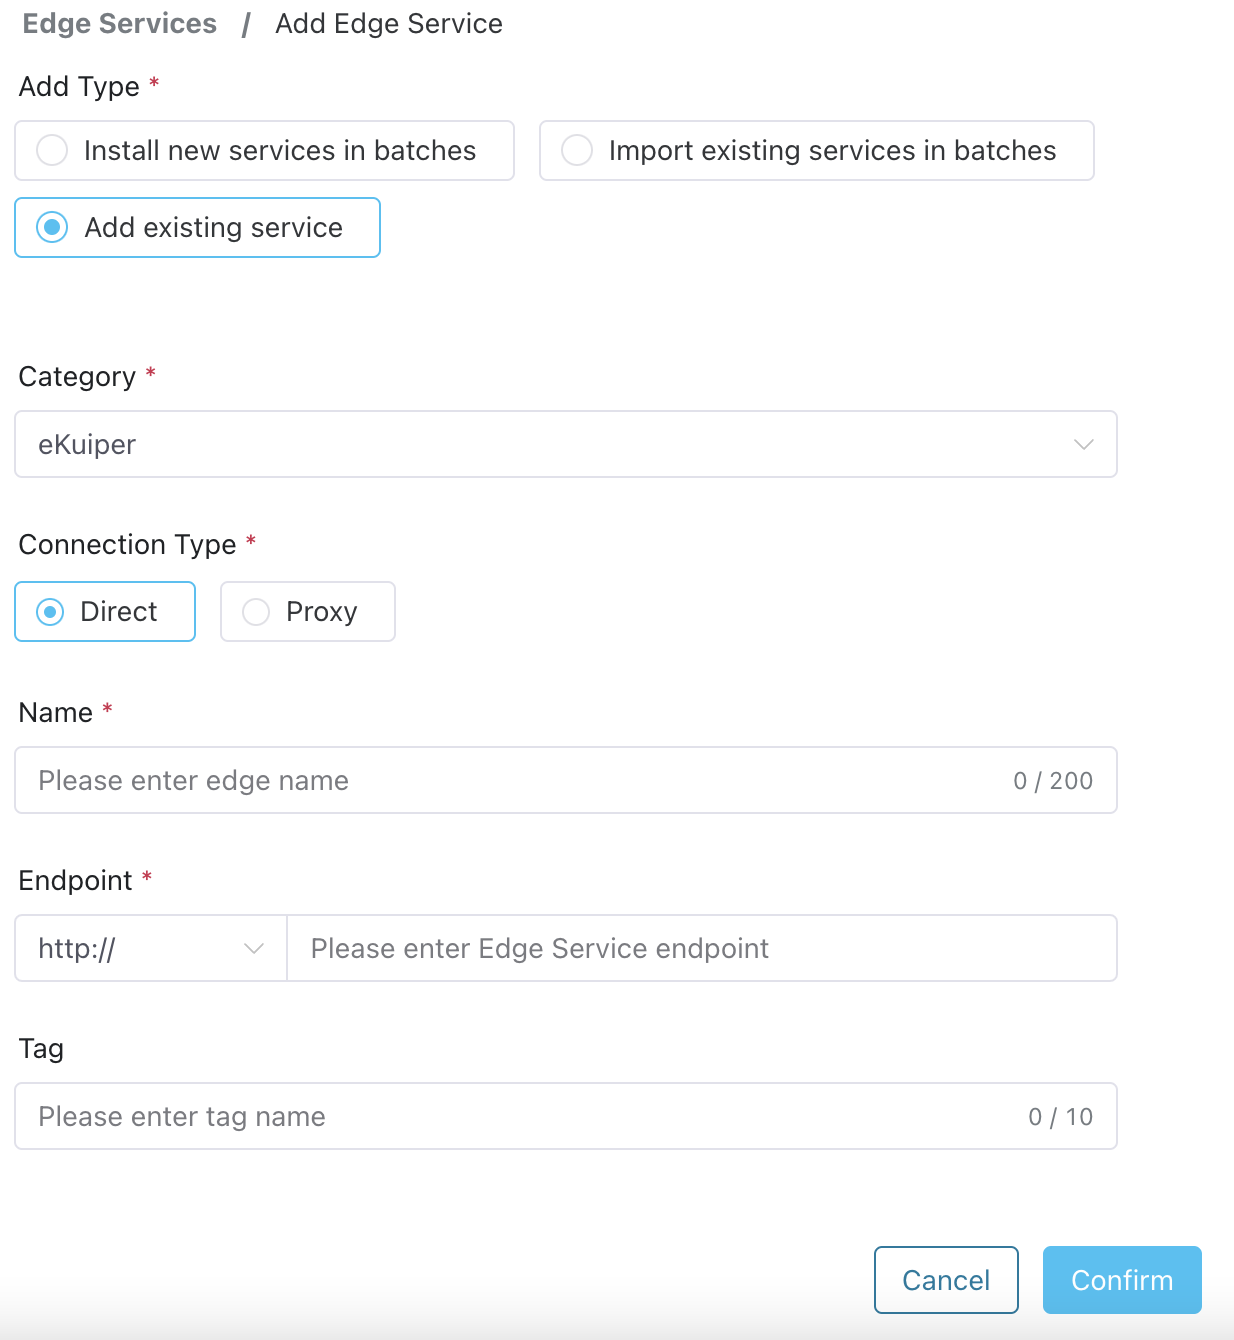
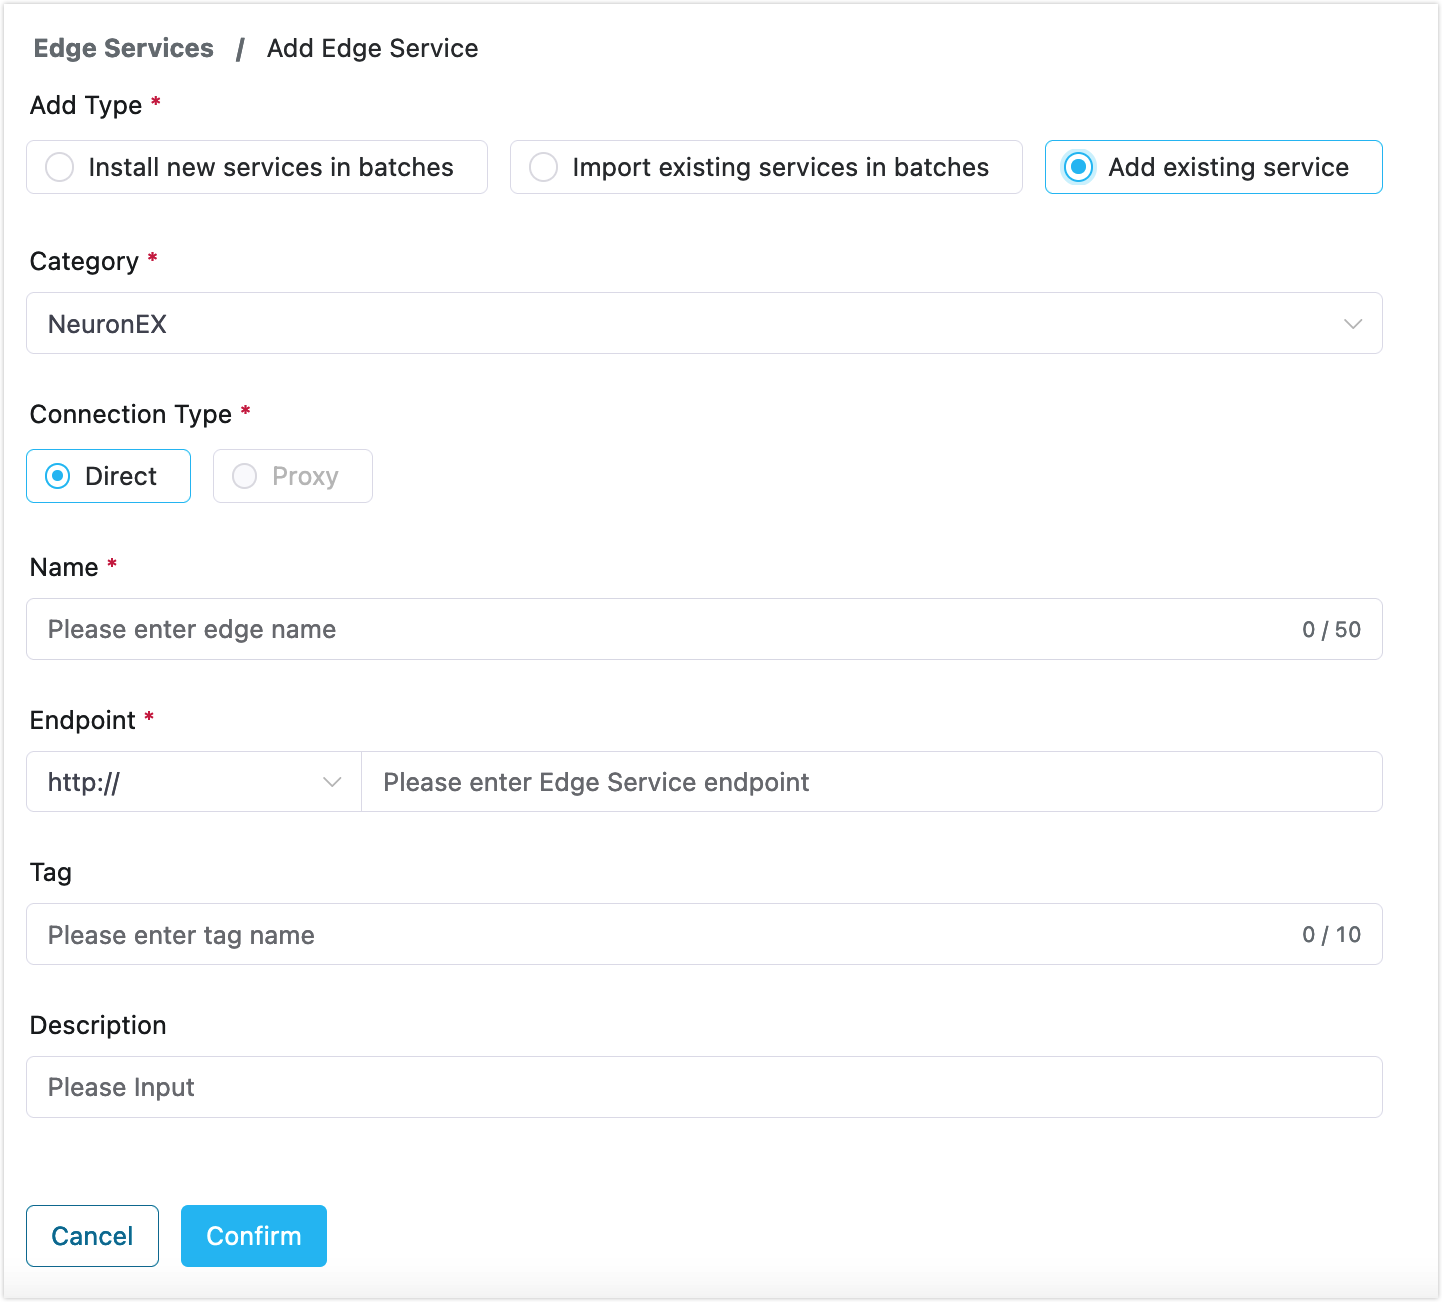
docs: update for edge service import

diff --git a/ecp/en_US/edge_service/batch_import.md b/ecp/en_US/edge_service/batch_import.md
@@ -1,10 +1,10 @@
 # Add Existing Edge Services
 
-ECP provides the capability to manage existing edge services. However, these services must first be added to ECP. You can add them either [one by one](#add-an-existing-edge-service) or, if adding Neuron or eKuiper edge services, you can do so [in bulk](#add-existing-edge-services-in-bulk).
+ECP provides the capability to manage existing edge services. However, these services must first be added to ECP. You can add [an externally created edge service](#add-an-existing-edge-service), or [import them from csv in bulk](#add-existing-edge-services-in-bulk).
 
 ## Add an Existing Edge Service
 
-ECP supports the addition of a Neuron or eKuiper in both [direct connection](#direct-connection-mode) and [proxy modes](#proxy-mode).
+ECP supports to add a NeuronEX instance in [direct connection mode](#direct-connection-mode).
 
 ### Direct Connection Mode
 
@@ -13,11 +13,11 @@ Direct connection mode generally refers to the scenario where the cluster and al
 1. Log in as system admin, organization admin, or project admin. 
 2. Click the **Add Edge Service** button to enter the **Add Edge Service** page.
 3. Choose **Add existing service** for **Add Type**.
-4. For **Category**, you can choose **eKuiper**, **Neuron**, **NanoMQ**, or **Customize**.
+4. For **Category**, choose **NeuronEX**.
 5. Choose **Direct Connection** for the **Connection Type**;
 6. Give a name to the edge service; it should be 1 - 200 characters, and also support "-" and blank spaces. 
 7. Enter the access address of the edge service. HTTP and HTTPS protocols are supported;
-8. Add tags to facilitate future management. For details, see [Tags](./batch_tag.md).
+8. Optionally add tags to facilitate future management. For details, see [Tags](./batch_tag.md).
 9. Click the **Confirm** button to finish the creation. The newly-added edge service is now displayed in the **Edge Service** section. 
 
 <img src="./_assets/edge-service-add.png" style="zoom:60%;" align="middle"> 
@@ -53,15 +53,15 @@ After the import, the imported edge services will automatically be displayed in 
 
 The following table provides an overview of the column names of the .csv file and their corresponding explanations:
 
-| Column    | Explanation                              |
-| --------- | ---------------------------------------- |
-| category  | Edge product type                        |
-| name      | Edge service name                        |
-| nodeType  | Direct/Proxy                             |
-| endpoint  | Edge service address                     |
-| scheme    | http/https/MQTT                          |
-| agentID   | Edge agent ID, optional                  |
-| tagName   | Tag name, optional                       |
-| serviceID | Edge service ID, optional                |
-| username  | NanoMQ authentication username, optional |
-| password  | NanoMQ authentication password, optional |
+| Column    | Explanation                       |
+| --------- | --------------------------------- |
+| category  | Edge product type                 |
+| name      | Edge service name                 |
+| nodeType  | Direct/Proxy                      |
+| endpoint  | Edge service address              |
+| scheme    | http/https/MQTT                   |
+| agentID   | Edge agent ID, optional           |
+| tagName   | Tag name, optional                |
+| serviceID | Edge service ID, optional         |
+| username  | Authentication username, optional |
+| password  | Authentication password, optional |

diff --git a/ecp/zh_CN/edge_service/batch_import.md b/ecp/zh_CN/edge_service/batch_import.md
@@ -4,45 +4,23 @@
 
 ## 添加一个现有服务
 
-ECP 支持直连和代理两种模式导入一个边缘服务。
-
-- [直连模式](#直连模式)：ECP 和边缘服务在同一网络或 VPC 的情况。
-- [代理模式](#代理模式)：边缘侧有自己的 VPC 或局域网，用户则需要先安装边缘代理，用于实现边缘侧和云端服务的通信。
+ECP 支持直连模式导入一个边缘服务，[直连模式](#直连模式)下，ECP 和边缘服务在同一网络或 VPC中。
 
 ### 直连模式
 
 1. 以系统/组织/项目管理员的身份登录 ECP。
 2. 点击**添加边缘服务**按钮，进入添加边缘服务页面。
 3. **添加方式**选择**添加一个现有服务**。
-4. **类型**可以选择 eKuiper、Neuron、NanoMQ 或自定义。
+4. **类型**选择 **NeuronEX**。
 5. 连接方式选择**直连**。
 6. 输入该边缘服务的名称；1 - 200 个字符，并支持 "-" 和空格。
 7. 输入边缘服务的地址，支持 HTTP 和 HTTPS 协议。
 8. [可选] 添加标签，方便后续维护。
 9. 点击**确认**，保存边缘服务信息；新增的边缘服务被添加到边缘服务列表中。
 
-<img src="./_assets/edge-service-add.png" style="zoom:40%;" align="middle">
+<img src="./_assets/edge-service-add.png" style="zoom:60%;" align="middle">
 
  
-
-### 代理模式
-
-如果边缘侧与云端是不同的网络不能直连，需要安装 ECP 自研的 Agent 进行代理。有关如何安装，见[安装 ECP 边缘代理](../install/install_edge_agent)。有关如何使用，见[ECP 边缘代理](./edge_agent_management.md)。
-
-#### 操作步骤
-
-1. 以系统/组织/项目管理员的身份登录 ECP。
-2. 点击**添加边缘服务**按钮，进入添加边缘服务页面。
-3. **添加方式**选择**添加一个现有服务**。
-4. **类型**可以选择 eKuiper、Neuron、NanoMQ 或自定义。
-5. 连接方式选择**代理**。
-6. 选择 ECP 边缘网关用于建立边缘侧和 ECP 的通信。
-7. 输入该边缘服务的名称；1 - 200 个字符，并支持 "-" 和空格。
-8. 输入边缘服务的地址，支持 HTTP 和 HTTPS 协议。
-9. [可选] 添加标签，方便后续维护。
-10. 点击**确认**，保存边缘服务信息；新增的边缘服务被添加到边缘服务列表中。
-
-<img src="./_assets/edge-service2-add.png" style="zoom:40%;" align="middle">
 
 ## 批量导入现有服务
 
@@ -69,6 +47,6 @@ CSV 文件的列名解释如下：
 |agentID|边缘代理 ID，非必填|
 |tagName|标签名称，非必填|
 |serviceID|边缘服务 ID，非必填|
-|username|NanoMQ 验证用户名，非必填|
-|password|NanoMQ 验证密码，非必填|
+|username|验证用户名，非必填|
+|password|验证密码，非必填|
 
